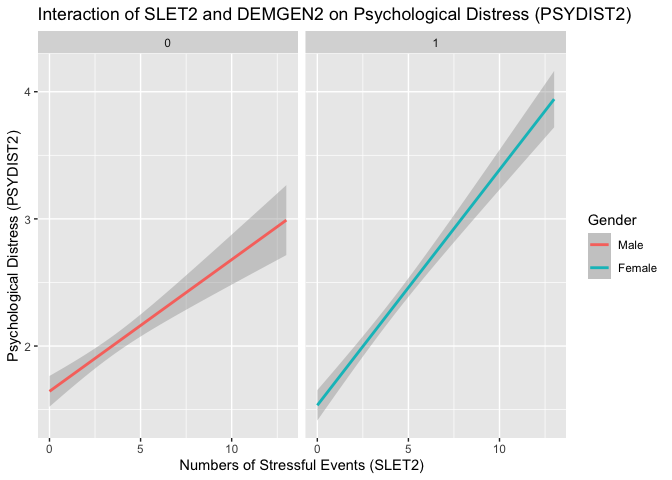
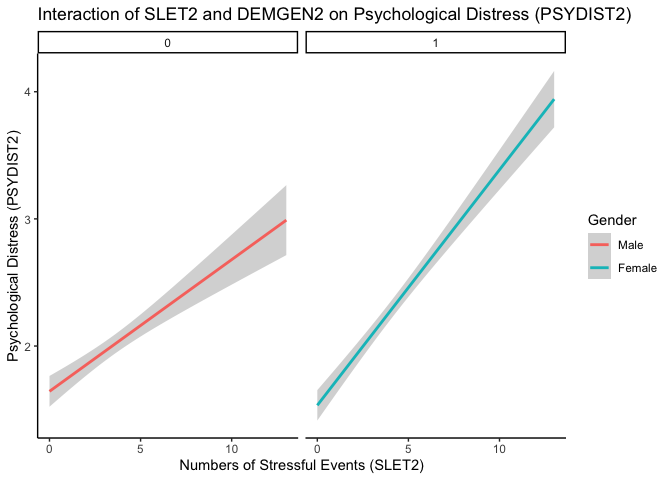
final research version (some graphs are not necessary))

diff --git a/Myproject.md b/Myproject.md
@@ -14,7 +14,7 @@ install.packages("moments")
 
     ## 
     ## The downloaded binary packages are in
-    ##  /var/folders/qv/j1c01f7x2l9ctjb7ps7yhmsr0000gn/T//RtmpP9K9vj/downloaded_packages
+    ##  /var/folders/qv/j1c01f7x2l9ctjb7ps7yhmsr0000gn/T//RtmpurMu3b/downloaded_packages
 
 ``` r
 library(moments)
@@ -80,7 +80,7 @@ install.packages("car")
 
     ## 
     ## The downloaded binary packages are in
-    ##  /var/folders/qv/j1c01f7x2l9ctjb7ps7yhmsr0000gn/T//RtmpP9K9vj/downloaded_packages
+    ##  /var/folders/qv/j1c01f7x2l9ctjb7ps7yhmsr0000gn/T//RtmpurMu3b/downloaded_packages
 
 ``` r
 library(car)
@@ -97,7 +97,8 @@ library(car)
 
 ``` r
 #hope it's the new one, yes it is 
-load ("/Users/chenxuejing/Downloads/ICPSR_36850/DS0003/36850-0003-Data.rda")
+load ("/Users/chenxuejing/Desktop/ICPSR_36850/DS0003/36850-0003-Data.rda")
+
 dataset <- da36850.0003
 rm(da36850.0003)
 dataset <- dataset %>%
@@ -607,11 +608,45 @@ dataset <- dataset[!is.na(dataset$DEMGEN2), ]
 ``` r
 model<-lm(PSYDIST2 ~ SLET2 + DEMGEN2 + DEMRA2013, data = dataset)
 
-#step 2: check the assumptions
+#check the assumptions
 check_model(model)
 ```
 
 ![](Myproject_files/figure-gfm/unnamed-chunk-4-1.png)<!-- -->
+
+``` r
+model_summary(model)
+```
+
+    ## 
+    ## Model Summary
+    ## 
+    ## ──────────────────────────────
+    ##                   (1) PSYDIST2
+    ## ──────────────────────────────
+    ## (Intercept)         1.478 *** 
+    ##                    (0.051)    
+    ## SLET2               0.152 *** 
+    ##                    (0.009)    
+    ## DEMGEN2             0.193 *** 
+    ##                    (0.054)    
+    ## DEMRA2013(1) Yes    0.007     
+    ##                    (0.126)    
+    ## ──────────────────────────────
+    ## R^2                 0.292     
+    ## Adj. R^2            0.289     
+    ## Num. obs.         730         
+    ## ──────────────────────────────
+    ## Note. * p < .05, ** p < .01, *** p < .001.
+    ## 
+    ## # Check for Multicollinearity
+    ## 
+    ## Low Correlation
+    ## 
+    ##       Term  VIF    VIF 95% CI Increased SE Tolerance Tolerance 95% CI
+    ##      SLET2 1.02 [1.00,  1.66]         1.01      0.98     [0.60, 1.00]
+    ##    DEMGEN2 1.01 [1.00,  3.40]         1.01      0.99     [0.29, 1.00]
+    ##  DEMRA2013 1.01 [1.00, 39.45]         1.00      0.99     [0.03, 1.00]
 
 ``` r
 ggplot(dataset, aes(x = SLET2, y = PSYDIST2)) + geom_point() + geom_smooth() + theme_bruce()
@@ -629,12 +664,14 @@ ggplot(dataset, aes(x = SLET2, y = PSYDIST2)) + geom_point() + geom_smooth() + t
 
 ``` r
 # Plot the interaction effect of stressful events and gender on psychological distress
-ggplot(dataset, aes(x = SLET2, y = PSYDIST2, color = factor(DEMGEN2))) + 
-  geom_smooth(method = "lm") +  facet_wrap(~DEMGEN2) +
+ggplot(dataset, aes(x = SLET2, y = PSYDIST2, color = factor(DEMGEN2))) +
+  geom_smooth(method = "lm") +
+  facet_wrap(~DEMGEN2) +
   ggtitle("Interaction of SLET2 and DEMGEN2 on Psychological Distress (PSYDIST2)") +
   xlab("Numbers of Stressful Events (SLET2)") +
   ylab("Psychological Distress (PSYDIST2)") +
-  scale_color_discrete(name = "Gender", labels = c("Male", "Female"))
+  scale_color_discrete(name = "Gender", labels = c("Male", "Female")) +
+  theme_classic() # White background with only axes and no gridlines
 ```
 
     ## `geom_smooth()` using formula = 'y ~ x'
@@ -1101,12 +1138,14 @@ ggplot(dataset, aes(x = SLET2, y = PSYDIST2)) + geom_point() + geom_smooth() + t
 
 ``` r
 # Plot the interaction effect of stressful events and gender on psychological distress
-ggplot(dataset, aes(x = SLET2, y = PSYDIST2, color = factor(DEMRA2013))) + 
-  geom_smooth(method = "lm") +  facet_wrap(~DEMRA2013) +
-  ggtitle("Interaction of Stressful Events (SLET2) and Asian ethinicity (DEMRA2013) on Psychological Distress (PSYDIST2)") +
+ggplot(dataset, aes(x = SLET2, y = PSYDIST2, color = factor(DEMRA2013))) +
+  geom_smooth(method = "lm") +
+  facet_wrap(~DEMRA2013) +
+  ggtitle("Interaction of SLET2 and DEMRA2013 on Psychological Distress (PSYDIST2)") +
   xlab("Stressful Events (SLET2)") +
   ylab("Psychological Distress (PSYDIST2)") +
-  scale_color_discrete(name = "Asian ethinicity", labels = c("Non-Asian", "Asian"))
+  scale_color_discrete(name = "Ethnicity", labels = c("Non-Asian", "Asian")) +
+  theme_classic() # This applies a white background with only axes and no gridlines
 ```
 
     ## `geom_smooth()` using formula = 'y ~ x'
@@ -1114,10 +1153,32 @@ ggplot(dataset, aes(x = SLET2, y = PSYDIST2, color = factor(DEMRA2013))) +
     ## Warning: Removed 3 rows containing non-finite outside the scale range
     ## (`stat_smooth()`).
 
-![](Myproject_files/figure-gfm/unnamed-chunk-6-3.png)<!-- --> \# Test
-the DV: Non-psychological distress scale (PSYDIST2: Mean of
-KESPDS201-KESPDS206) \# Because this variable has 6 items, we shall run
-the reliability and factor analysis.
+![](Myproject_files/figure-gfm/unnamed-chunk-6-3.png)<!-- -->
+
+``` r
+data2 <- dataset %>% 
+  select(SLET2, DEMRA2013, PSYDIST2)
+Corr(data2)
+```
+
+    ## NOTE: `DEMRA2013` transformed to numeric.
+    ## 
+    ## Pearson's r and 95% confidence intervals:
+    ## ──────────────────────────────────────────────────────
+    ##                         r       [95% CI]     p       N
+    ## ──────────────────────────────────────────────────────
+    ## SLET2-DEMRA2013     -0.09 [-0.16, -0.02]  .017 *   731
+    ## SLET2-PSYDIST2       0.53 [ 0.47,  0.58] <.001 *** 730
+    ## DEMRA2013-PSYDIST2  -0.04 [-0.11,  0.03]  .262     730
+    ## ──────────────────────────────────────────────────────
+
+![](Myproject_files/figure-gfm/unnamed-chunk-6-4.png)<!-- -->
+
+    ## Correlation matrix is displayed in the RStudio `Plots` Pane.
+
+# Test the DV: Non-psychological distress scale (PSYDIST2: Mean of KESPDS201-KESPDS206)
+
+# Because this variable has 6 items, we shall run the reliability and factor analysis.
 
 ``` r
 #Convert items (KESPDS201-KESPDS206) to numeric: 1 = none of the time, 2 = a little of the time, 3 = some of the time, 4 = most of the time, 5 = all of the time
